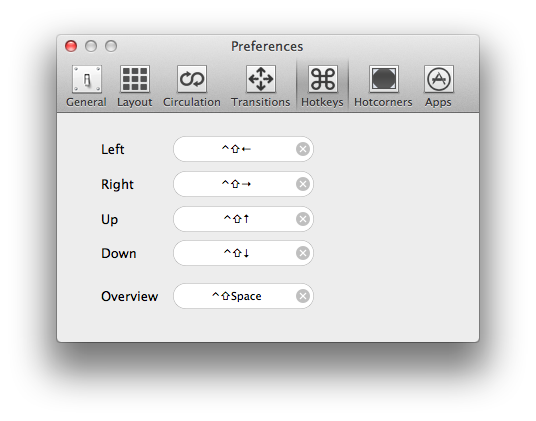
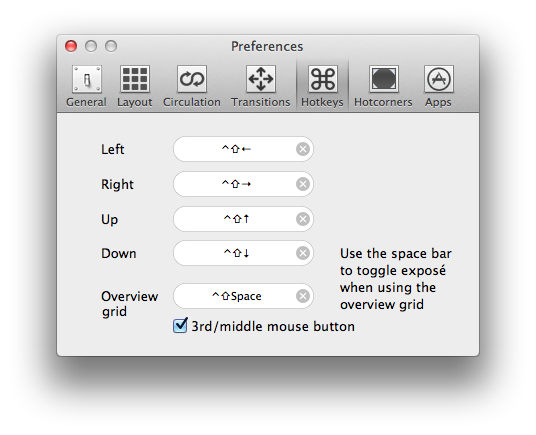
updates for v0.10.3

diff --git a/changelog.html b/changelog.html
@@ -47,6 +47,55 @@
     </head>
     <body>
       <div id="page" class="changelog" style="padding: 5px 12px">
+
+        <div class="release">
+  				<div class="titlebox">
+  					<h4>
+  						<a href="http://downloads.binaryage.com/TotalSpaces-0.10.3.pkg">0.10.3</a>
+  					</h4>
+  					<h5>
+  						20 June 2012
+  					</h5>
+  				</div>
+  				<div class="infobox">
+  					<ul class="changes">
+  					  <li>
+  							<span class="sticker new"><b>NEW</b></span> <span class="info">Exposé mode when in overview grid - activate with the space bar</span>
+  						</li>
+  						<li>
+  							<span class="sticker improved"><b>IMPROVED</b></span> <span class="info">Improved caching in overview grid for better performance</span>
+  						</li>
+  						<li>
+  							<span class="sticker improved"><b>IMPROVED</b></span> <span class="info">It's less easy to drag windows accidentally when clicking in the overview grid</span>
+  						</li>
+  					  <li>
+  							<span class="sticker new"><b>NEW</b></span> <span class="info">Can trigger overview grid with 3rd button for 3 button mouse users</span>
+  						</li>  						
+  						<li>
+  							<span class="sticker improved"><b>IMPROVED</b></span> <span class="info">Overview grid background is no longer translucent for better performance, better clarity, and to prevent accidental triggering of Dock functions</span>
+  						</li>
+  						<li>
+  							<span class="sticker fixed"><b>FIXED</b></span> <span class="info">Activating the grid no longer causes 1Password or similar apps to lock</span>
+  						</li>
+  						<li>
+  							<span class="sticker improved"><b>IMPROVED</b></span> <span class="info">Latest Mountain Lion beta support (please use the latest Apple beta if you wish to try TotalSpaces on Mountain Lion)</span>
+  						</li>
+  						<li>
+  							<span class="sticker fixed"><b>FIXED</b></span> <span class="info">Cursor always reverts to arrow in overview grid, and hover texts will no longer appear stuck</span>
+  						</li>
+  						<li>
+  							<span class="sticker fixed"><b>FIXED</b></span> <span class="info">Trackpad gestures are now recognised on Air hardware after waking from sleep</span>
+  						</li>
+  						<li>
+  							<span class="sticker fixed"><b>FIXED</b></span> <span class="info">3 and 4 finger swiping should no longer trigger swipe events in browser windows</span>
+  						</li>
+  						<li>
+  							<span class="sticker improved"><b>IMPROVED</b></span> <span class="info">3 and 4 finger swiping no longer requires trackpad preferences actions to be disabled (except for 3 finger drag)</span>
+  						</li>
+  					</ul>
+  				</div>
+  			</div>
+
         <div class="release">
   				<div class="titlebox">
   					<h4>
@@ -86,8 +135,6 @@
   				</div>
   			</div>
       
-      
-      <div id="page" class="changelog" style="padding: 5px 12px">
         <div class="release">
   				<div class="titlebox">
   					<h4>

diff --git a/overview.md b/overview.md
@@ -13,7 +13,15 @@ You can also organise your windows by dragging them from desktop to desktop, and
 
 <img src="/images/drag-windows.png">
 
-When dragging a window from one desktop to another, you choose to have the system place the window in the same place on the new desktop (as it was in the previous desktop), or to just leave it where you dropped it. This setting is in the General preferences pane.
+If you can't see the window you need, just press the space bar, and all the windows will move to visible positions.
+
+<img src="/images/grid-exposed.png">
+
+If you click on a window it will come to the front, and the space will activate - so it's a quick way to select the window you need to work with.
+
+You can drag windows between desktops when they are exposed like this, and you can cancel this mode by pressing the space bar again.
+
+When dragging a window from one desktop to another (and they are not in exposed mode), you choose to have the system place the window in the same place on the new desktop (as it was in the previous desktop), or to just leave it where you dropped it. This setting is in the General preferences pane.
 
 <img src="/images/general-preferences.png">
 

diff --git a/index.md b/index.md
@@ -4,8 +4,8 @@ title: TotalSpaces app brings back grid Spaces to OS X Lion and more!
 product_title: TotalSpaces
 product_subtitle: brings back grid Spaces to OS X Lion and more!
 subtitle: brings back grid Spaces to OS X Lion and more!
-download: http://downloads.binaryage.com/TotalSpaces-0.10.0.zip
-downloadtitle: Download v0.10.0
+download: http://downloads.binaryage.com/TotalSpaces-0.10.3.zip
+downloadtitle: Download v0.10.3
 facebook: 1
 retweet: 1
 buzz: 1

diff --git a/hotkeys.md b/hotkeys.md
@@ -6,6 +6,8 @@ subtitle: Hotkeys
 
 TotalSpaces allows you to set hotkeys for going Left, Right, Up and Down in your grid of desktops, and for opening the [Overview Grid](/overview).
 
+You can also choose to use the center or 3rd button to trigger the grid if you have a 3 button mouse.
+
 <img src="/images/hotkeys-preferences.png" class="prefs-screenshot">
 
 You can click inside the hotkey recorder to change the hotkey setting.
